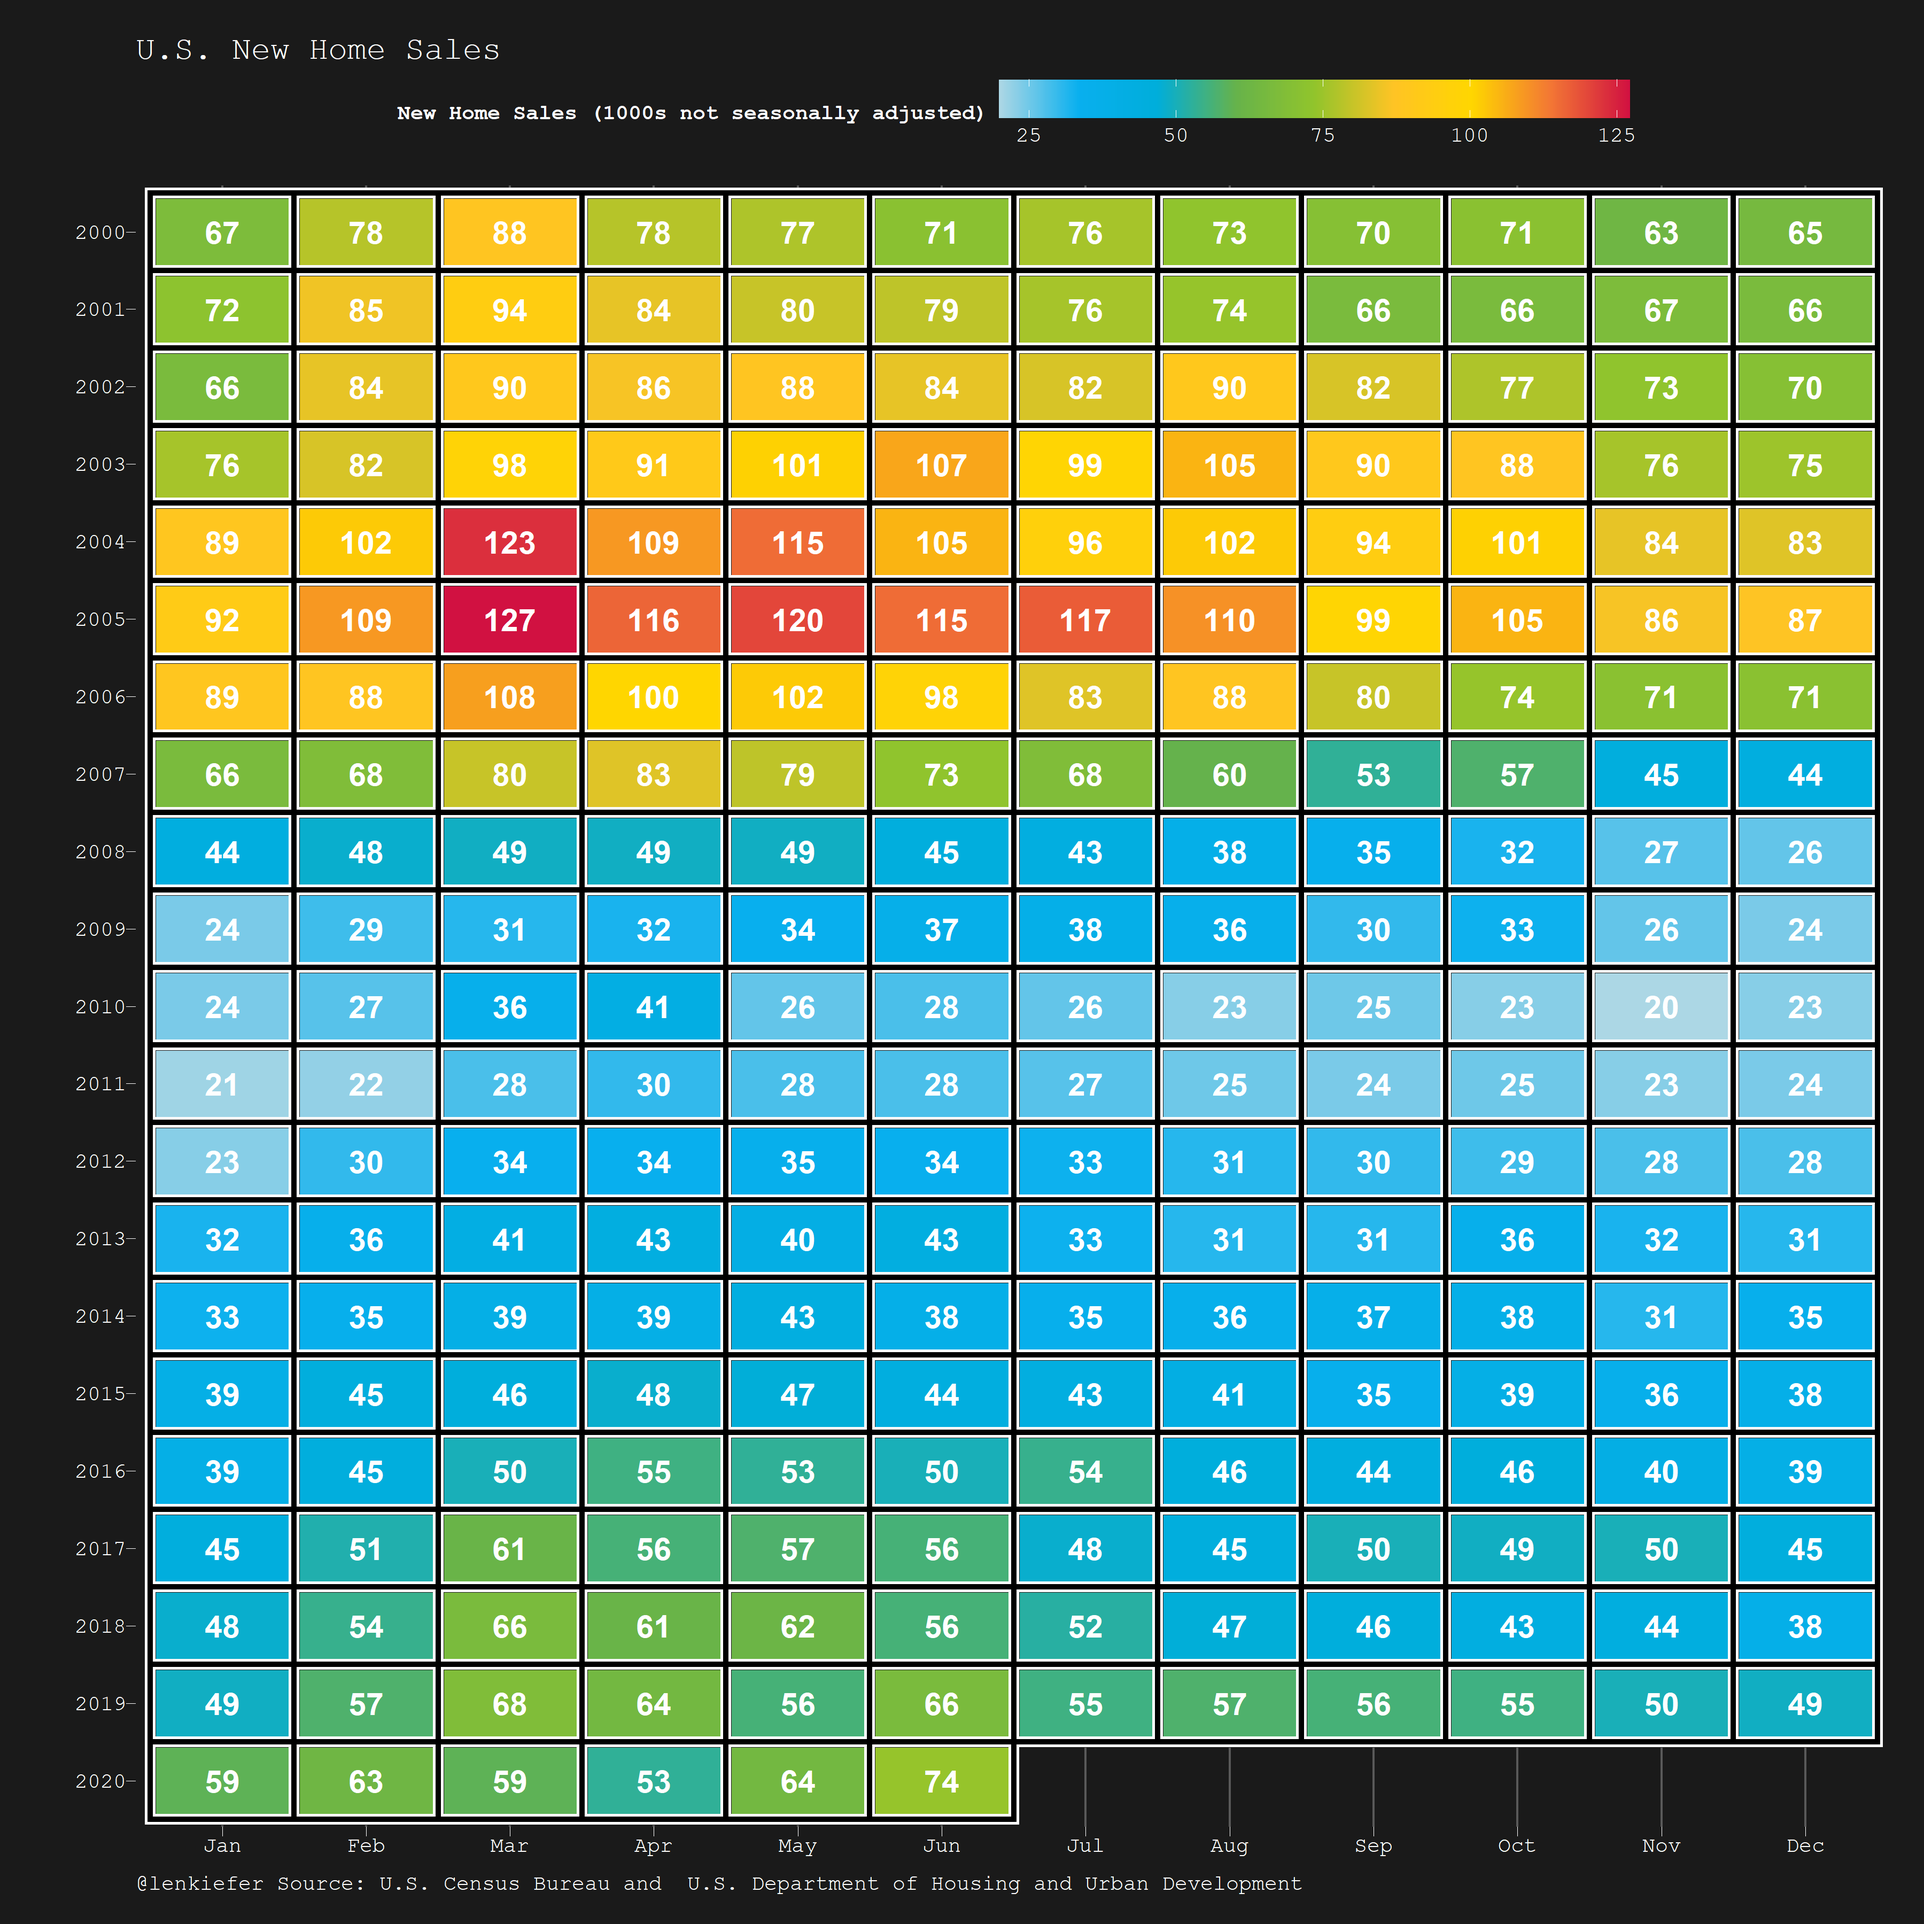
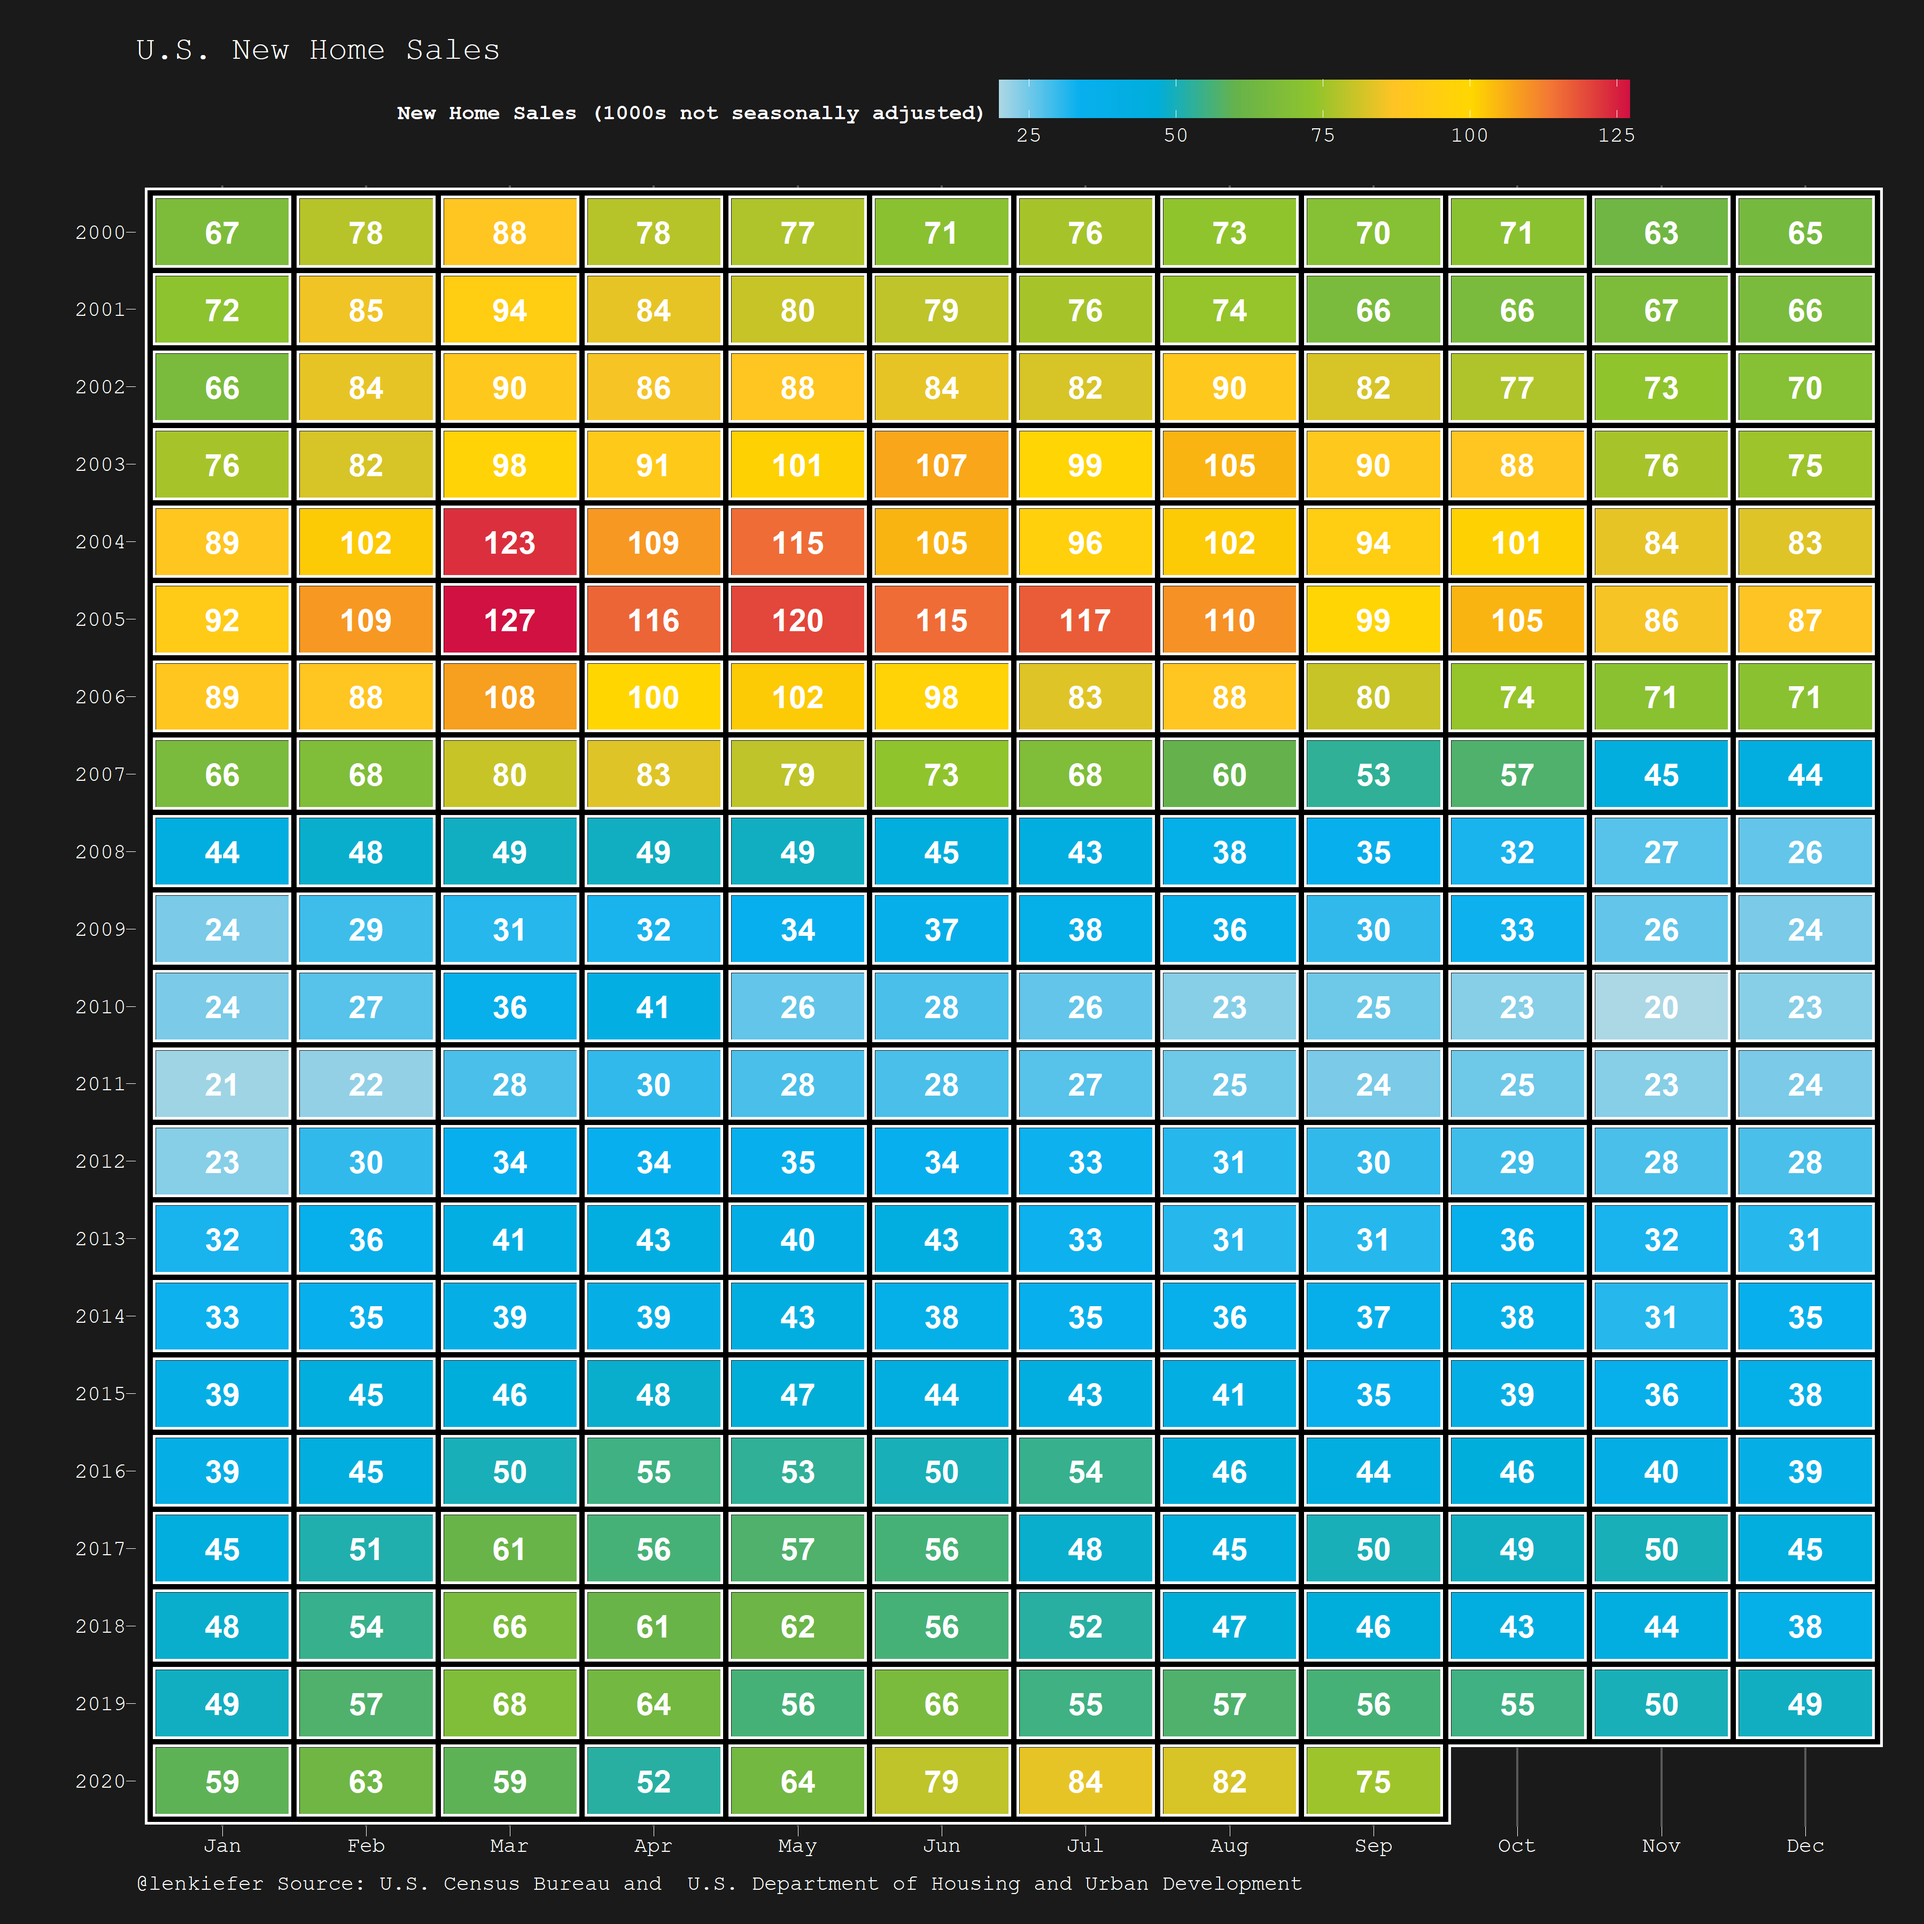
update viz oct 26 2020

Changed region(s): [[0.4356, 0.9022, 0.7778, 0.9644]]

diff --git a/2020/04/20/updated-favorite-data-visualizations/index.html b/2020/04/20/updated-favorite-data-visualizations/index.html
@@ -283,7 +283,7 @@
 </div>
 <div id="new-home-sales" class="section level1">
 <h1>New Home Sales</h1>
-<p><em>Last updated 2020-08-08</em></p>
+<p><em>Last updated 2020-10-26</em></p>
 <p>Post: <a href="../../../../2019/07/24/housing-usually-heats-up-in-summer/">Housing usually heats up in summer</a></p>
 <p><img src="../../../../img/favorites/nhs_grid.png" style="width:550px"></p>
 <p>Post: <a href="http://lenkiefer.com/2017/04/26/housing-data-uncertainty/">Visualizing uncertainty in housing data</a></p>
